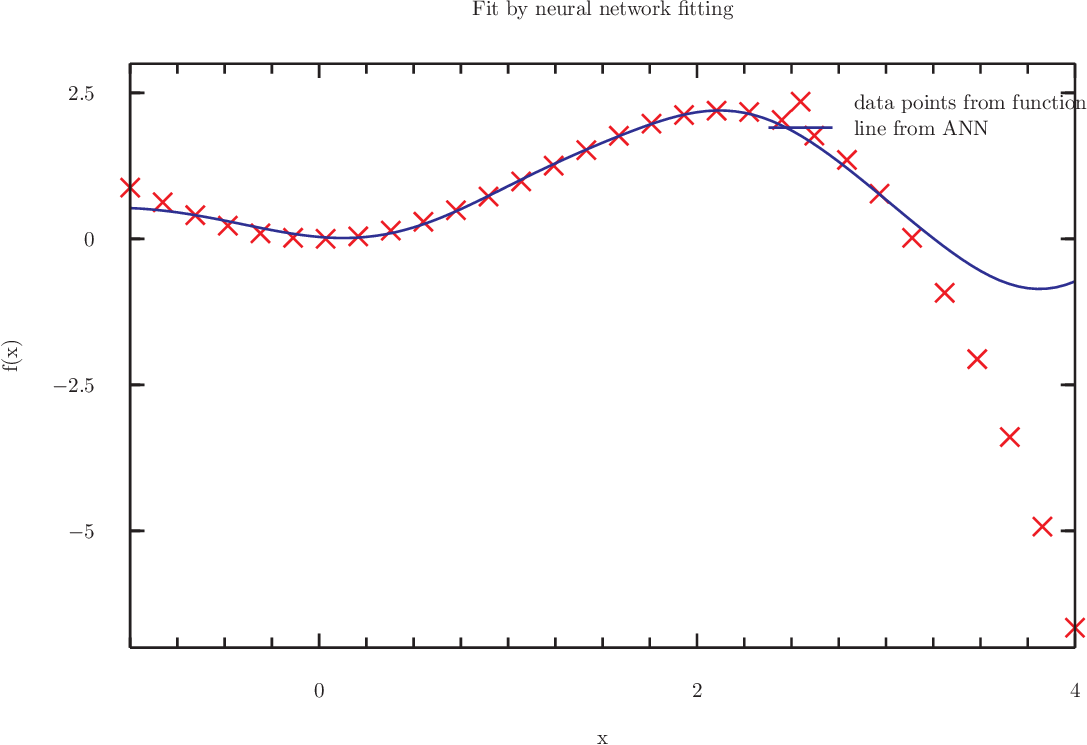
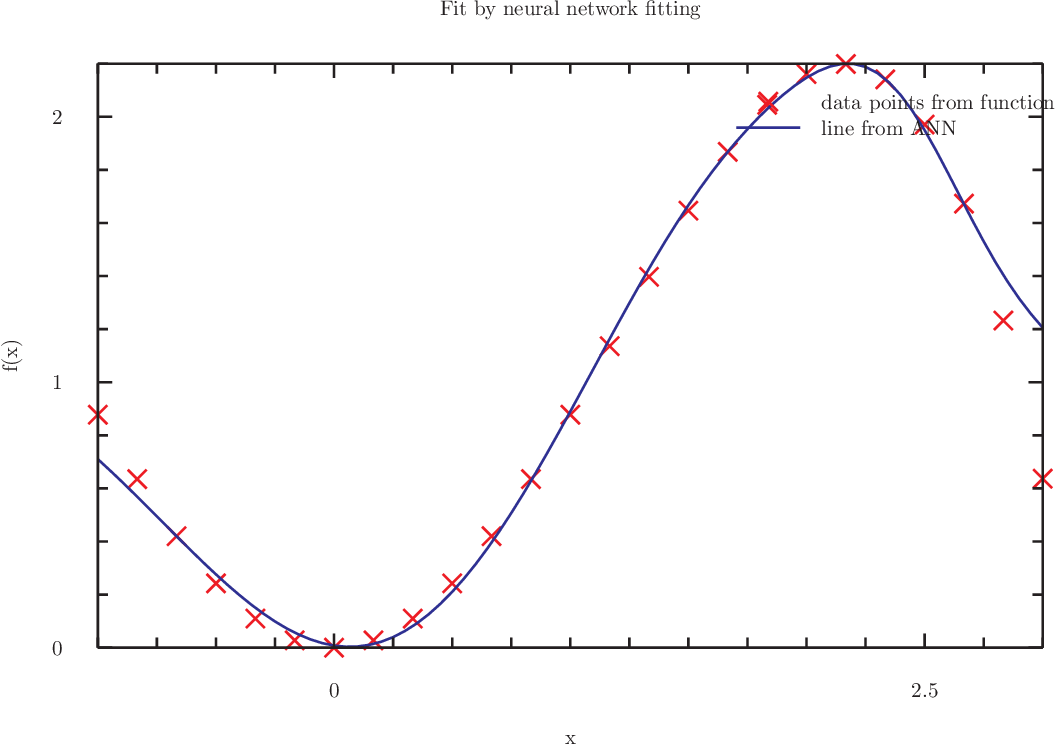
Initial commit

diff --git a/homework/ArtificialNerualNetwork/main.c b/homework/ArtificialNerualNetwork/main.c
@@ -10,8 +10,8 @@ int main(){
 	ann* network=ann_alloc(n,activation_function);
 
 	//Laver tabulated values baseret på function to fit
-	double a=-1,b=4;
-	int N=30;
+	double a=-1,b=3;
+	int N=25;
 	gsl_vector* vx=gsl_vector_alloc(N);
 	gsl_vector* vy=gsl_vector_alloc(N);
 
